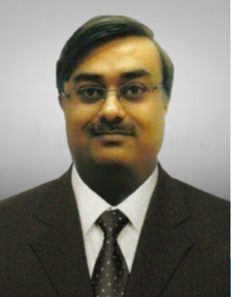
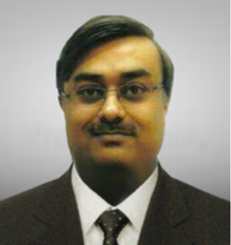
commit

diff --git a/src/components/Committee.tsx b/src/components/Committee.tsx
@@ -11,6 +11,16 @@ import paramashivaiahImg from '@/assets/paramashivaiah.jpg';
 import premasudhaImg from '@/assets/premasudha.jpg';
 import sunilsaumyaImg from '@/assets/sunilsaumya.jpeg';
 import surendiranImg from '@/assets/surendrian.jpeg';
+import mamathaImg from '@/assets/Mamatha.jpg';
+import nijalingappaImg from '@/assets/Nijalingappa .jpg';
+import sowjanyaImg from '@/assets/Sowjanya.jpg';
+import yogeshwarappaImg from '@/assets/Yogeshwarappa.jpg';
+import lingadevaruImg from '@/assets/lingadevaru.jpg';
+import shivakumaraiahImg from '@/assets/Dr-Shivakumaraiah.jpg';
+import nanjundappaImg from '@/assets/Nanjundappa.jpg';
+import mahadevaprasannaImg from '@/assets/mahadevaprsanna.jpg';
+import jaisankarImg from '@/assets/Jaisankarn.webp';
+import sunithanrImg from '@/assets/Sunithanr.jpeg';
 
 const Committee = () => {
   const keynoteData = [
@@ -43,13 +53,13 @@ const Committee = () => {
   const advisoryCommittee = [
     {
       name: "Dr. Dileep A.D.",
-      title: "Professor, Dept. of Computer Science and Engineering & Dean Administration",
+      title: "Professor, Department of Computer Science and Engineering & Dean Administration",
       institution: "Indian Institute of Technology, Dharwad",
       image: dileepAdImg
     },
     {
       name: "Dr. R. Padmavathy",
-      title: "Professor & Former HoD, Dept. of Computer Science and Engineering",
+      title: "Professor & Former Head, Department of Computer Science and Engineering",
       institution: "National Institute of Technology, Warangal",
       image: padmavathyImg
     },
@@ -67,8 +77,9 @@ const Committee = () => {
     },
     {
       name: "Dr. Jaisankar N.",
-      title: "Professor, Higher Academic Grade, School of Computer Science and Engineering, Dept. of Software Systems",
-      institution: "VIT, Vellore"
+      title: "Professor, Higher Academic Grade, School of Computer Science and Engineering, Department of Software Systems",
+      institution: "VIT, Vellore",
+      image: jaisankarImg
     },
     {
       name: "Dr. B. Surendiran",
@@ -78,20 +89,21 @@ const Committee = () => {
     },
     {
       name: "Prof. P. Paramashivaiah",
-      title: "Professor, Dept. of Commerce and Management",
+      title: "Professor, Department of Commerce and Management",
       institution: "Tumkur University",
       image: paramashivaiahImg
     },
     {
       name: "Dr. Premasudha B.G.",
-      title: "HOD, Dept. of MCA",
+      title: "Professor and Head, Department of MCA",
       institution: "SIT, Tumakuru",
       image: premasudhaImg
     },
     {
       name: "Dr. Sunitha N.R.",
-      title: "HOD, Dept. of Computer Science and Engineering",
-      institution: "SIT, Tumakuru"
+      title: "Professor and Head, Department of Computer Science and Engineering",
+      institution: "SIT, Tumakuru",
+      image: sunithanrImg
     }
   ];
 
@@ -108,12 +120,12 @@ const Committee = () => {
     },
     {
       name: "Dr. R Aparna",
-      title: "Professor & HOD, Dept. of Information Science and Engineering",
+      title: "Professor and Head, Dept of Information Science and Engineering",
       institution: "SIT, Tumakuru"
     },
     {
       name: "Dr. Kusuma Kumari B M",
-      title: "Coordinator, Dept. PG studies in Computer Science",
+      title: "Coordinator, Department of PG Studies in Computer Science",
       institution: "Tumkur University, Tumakuru"
     },
     {
@@ -123,47 +135,47 @@ const Committee = () => {
     },
     {
       name: "Dr. Vijay Kumar H S",
-      title: "Assistant Professor, Dept. of MCA",
+      title: "Assistant Professor, Department of MCA",
       institution: "SIT, Tumakuru"
     },
     {
       name: "Dr. Prashanth G K",
-      title: "Assistant Professor, Dept. of MCA",
+      title: "Assistant Professor, Department of MCA",
       institution: "SIT, Tumakuru"
     },
     {
       name: "Mahesha S",
-      title: "HOD, Dept. of Computer Science",
+      title: "Professor and Head, Department of Computer Science",
       institution: "SSCASCW, Tumakuru"
     },
     {
       name: "K S Lingadevarappa",
-      title: "HOD, Dept. of Computer Science",
+      title: "Professor and Head, Department of Computer Science",
       institution: "SSCASC, Tumakuru"
     },
     {
       name: "Prof. Shylesha B S",
-      title: "HOD, Dept. of Chemistry",
+      title: "Professor and Head, Department of Chemistry",
       institution: "SSCASC, Tumakuru"
     },
     {
       name: "Dr. Padmaja Y M",
-      title: "HOD, Dept. of Kannada",
+      title: "Professor and Head, Department of Kannada",
       institution: "SSCASC, Tumakuru"
     },
     {
       name: "Dr. Revanasiddappa",
-      title: "HOD, Dept. of Physics",
+      title: "Professor and Head, Department of Physics",
       institution: "SSCASC, Tumakuru"
     },
     {
       name: "Prof. Hanumantharayappa",
-      title: "HOD, Dept. of Mathematics",
+      title: "Professor and Head, Department of Mathematics",
       institution: "SSCASC, Tumakuru"
     },
     {
       name: "Dr. Chandrashekaraiah",
-      title: "HOD, Dept. of History",
+      title: "Professor and Head, Department of History",
       institution: "SSCASC, Tumakuru"
     },
     {
@@ -173,27 +185,27 @@ const Committee = () => {
     },
     {
       name: "Prof. Rathnamma Y S",
-      title: "HOD, Dept. of PG Studies in Commerce",
+      title: "Professor and Head, Department of PG Studies in Commerce",
       institution: "SSCASC, Tumakuru"
     },
     {
       name: "Prof. Uday Kumar",
-      title: "Director, Dept. of Physical Education",
+      title: "Director, Department of Physical Education",
       institution: "SSCASC, Tumakuru"
     },
     {
       name: "Prof. Sowmya L",
-      title: "HOD, Dept. of Bio technology",
+      title: "Professor and Head, Department of Bio technology",
       institution: "SSCASC, Tumakuru"
     },
     {
       name: "Prof. Navya S Murthy",
-      title: "HOD, Dept. of Commerce",
+      title: "Professor and Head, Department of Commerce",
       institution: "SSCASC, Tumakuru"
     },
     {
       name: "Prof. Yashaswini",
-      title: "HOD, Dept. of Business Administration",
+      title: "Professor and Head, Department of Business Administration",
       institution: "SSCASC, Tumakuru"
     },
     {
@@ -203,8 +215,29 @@ const Committee = () => {
     },
     {
       name: "Sri Mallesh Babu",
-      title: "Asst. Professor, Dept. of Computer Science",
+      title: "Assistant Professor, Department of Computer Science",
       institution: "SSCASCW, Tumakuru"
+    }
+  ];
+
+  const conferenceOrganizers = [
+    {
+      name: "Dr. Kusuma Kumari B M",
+      title: "Coordinator, Dept PG studies in Computer Science",
+      institution: "Tumkur University, Tumakuru",
+      image: mamathaImg
+    },
+    {
+      name: "K S Lingadevarappa",
+      title: "HOD, Dept. of Computer Science",
+      institution: "SSCASC, Tumakuru",
+      image: lingadevaruImg
+    },
+    {
+      name: "Prof. Sowmya L",
+      title: "HOD, Dept. of Bio technology",
+      institution: "SSCASC, Tumakuru",
+      image: sowjanyaImg
     }
   ];
 
@@ -247,8 +280,17 @@ const Committee = () => {
                 </CardTitle>
               </CardHeader>
               <CardContent className="text-center">
-                <h4 className="font-bold text-foreground mb-1">Sri T K Nanjundappa</h4>
-                <p className="text-sm text-muted-foreground">Hon. Secretary, Sree Siddaganga Education Society, Sree Siddaganga Math, Tumakuru</p>
+                <div className="flex flex-col items-center mb-2">
+                  <div className="w-14 h-14 overflow-hidden rounded-full border-2 border-secondary/30 mb-2">
+                    <img
+                      src={nanjundappaImg}
+                      alt="Sri T K Nanjundappa"
+                      className="w-full h-full object-cover"
+                    />
+                  </div>
+                  <h4 className="font-bold text-foreground mb-1">Sri T K Nanjundappa</h4>
+                  <p className="text-sm text-muted-foreground">Hon. Secretary, Sree Siddaganga Education Society, Sree Siddaganga Math, Tumakuru</p>
+                </div>
               </CardContent>
             </Card>
 
@@ -260,8 +302,17 @@ const Committee = () => {
                 </CardTitle>
               </CardHeader>
               <CardContent className="text-center">
-                <h4 className="font-bold text-foreground mb-1">Dr. Shivakumaraiah</h4>
-                <p className="text-sm text-muted-foreground">Joint Secretary, Sree Siddaganga Education Society, Sree Siddaganga Math, Tumakuru</p>
+                <div className="flex flex-col items-center mb-2">
+                  <div className="w-14 h-14 overflow-hidden rounded-full border-2 border-secondary/30 mb-2">
+                    <img
+                      src={shivakumaraiahImg}
+                      alt="Dr. Shivakumaraiah"
+                      className="w-full h-full object-cover"
+                    />
+                  </div>
+                  <h4 className="font-bold text-foreground mb-1">Dr. Shivakumaraiah</h4>
+                  <p className="text-sm text-muted-foreground">Joint Secretary, Sree Siddaganga Education Society, Sree Siddaganga Math, Tumakuru</p>
+                </div>
               </CardContent>
             </Card>
 
@@ -273,8 +324,17 @@ const Committee = () => {
                 </CardTitle>
               </CardHeader>
               <CardContent className="text-center">
-                <h4 className="font-bold text-foreground mb-1">Dr. D N Yogeeshwarappa</h4>
-                <p className="text-sm text-muted-foreground">Coordinator for Degree Colleges, Sree Siddaganga Education Society, Sree Siddaganga Math, Tumakuru</p>
+                <div className="flex flex-col items-center mb-2">
+                  <div className="w-14 h-14 overflow-hidden rounded-full border-2 border-secondary/30 mb-2">
+                    <img
+                      src={yogeshwarappaImg}
+                      alt="Dr. D N Yogeeshwarappa"
+                      className="w-full h-full object-cover"
+                    />
+                  </div>
+                  <h4 className="font-bold text-foreground mb-1">Dr. D N Yogeeshwarappa</h4>
+                  <p className="text-sm text-muted-foreground">Coordinator for Degree Colleges, Sree Siddaganga Education Society, Sree Siddaganga Math, Tumakuru</p>
+                </div>
               </CardContent>
             </Card>
           </div>
@@ -289,8 +349,17 @@ const Committee = () => {
                 </CardTitle>
               </CardHeader>
               <CardContent className="text-center">
-                <h3 className="text-lg font-bold text-primary mb-2">Dr. T B Nijalingappa</h3>
-                <p className="text-muted-foreground">Principal, Sree Siddaganga College of Arts, Science and Commerce, Tumakuru</p>
+                <div className="flex flex-col items-center mb-4">
+                  <div className="w-16 h-16 overflow-hidden rounded-full border-2 border-accent/30 mb-3">
+                    <img
+                      src={nijalingappaImg}
+                      alt="Dr. T B Nijalingappa"
+                      className="w-full h-full object-cover"
+                    />
+                  </div>
+                  <h3 className="text-lg font-bold text-primary mb-2">Dr. T B Nijalingappa</h3>
+                  <p className="text-muted-foreground">Principal, Sree Siddaganga College of Arts, Science and Commerce, Tumakuru</p>
+                </div>
               </CardContent>
             </Card>
 
@@ -302,8 +371,17 @@ const Committee = () => {
                 </CardTitle>
               </CardHeader>
               <CardContent className="text-center">
-                <h3 className="text-lg font-bold text-primary mb-2">Dr. S.R. Mahadeva Prasanna</h3>
-                <p className="text-muted-foreground">Director, IIIT, Dharwad</p>
+                <div className="flex flex-col items-center mb-4">
+                  <div className="w-16 h-16 overflow-hidden rounded-full border-2 border-teal-300 mb-3">
+                    <img
+                      src={mahadevaprasannaImg}
+                      alt="Dr. S.R. Mahadeva Prasanna"
+                      className="w-full h-full object-cover"
+                    />
+                  </div>
+                  <h3 className="text-lg font-bold text-primary mb-2">Dr. S.R. Mahadeva Prasanna</h3>
+                  <p className="text-muted-foreground">Director, IIIT, Dharwad</p>
+                </div>
               </CardContent>
             </Card>
           </div>
@@ -323,7 +401,7 @@ const Committee = () => {
             {keynoteData.map((speaker, index) => (
               <Card key={index} className="card-conference text-center">
                 <CardContent className="p-6">
-                  <div className="w-20 h-20 mx-auto mb-4 overflow-hidden rounded-full border-2 border-primary/20">
+                  <div className="w-24 h-24 mx-auto mb-4 overflow-hidden rounded-full border-2 border-primary/20">
                     <img
                       src={speaker.image}
                       alt={speaker.name}
@@ -352,7 +430,7 @@ const Committee = () => {
                 <CardContent className="p-6">
                   <div className="flex items-start space-x-4">
                     {member.image ? (
-                      <div className="w-12 h-12 overflow-hidden rounded-full border-2 border-primary/20 flex-shrink-0">
+                      <div className="w-16 h-16 overflow-hidden rounded-full border-2 border-primary/20 flex-shrink-0">
                         <img
                           src={member.image}
                           alt={member.name}

diff --git a/src/components/Contact.tsx b/src/components/Contact.tsx
@@ -1,26 +1,32 @@
 import React from 'react';
 import { MapPin, Phone, Mail, User, Clock } from 'lucide-react';
 import { Card, CardContent, CardHeader, CardTitle } from '@/components/ui/card';
+import mamathaImg from '@/assets/Mamatha.jpg';
+import sowjanyaImg from '@/assets/Sowjanya.jpg';
+import lingadevaruImg from '@/assets/lingadevaru.jpg';
 
 const Contact: React.FC = () => {
   const contactPersons = [
     {
       name: "K S Lingadevarappa",
-      role: "HOD",
+      role: "Professor and Head",
       phone: "9632246106",
-      icon: User
+      icon: User,
+      image: lingadevaruImg
     },
     {
       name: "Mamatha M",
       role: "Coordinator",
       phone: "7892605749",
-      icon: User
+      icon: User,
+      image: mamathaImg
     },
     {
       name: "Sowjanya G",
       role: "Co-coordinator",
       phone: "9738120370",
-      icon: User
+      icon: User,
+      image: sowjanyaImg
     }
   ];
 
@@ -127,8 +133,12 @@ const Contact: React.FC = () => {
                   {contactPersons.map((person, index) => (
                     <div key={index} className="flex items-center justify-between p-4 bg-muted/50 rounded-lg">
                       <div className="flex items-center space-x-3">
-                        <div className="p-2 bg-secondary/20 rounded-full">
-                          <person.icon className="text-secondary" size={20} />
+                        <div className="w-14 h-14 overflow-hidden rounded-full border-2 border-secondary/30">
+                          <img
+                            src={person.image}
+                            alt={person.name}
+                            className="w-full h-full object-cover"
+                          />
                         </div>
                         <div>
                           <h4 className="font-semibold text-foreground">{person.name}</h4>
